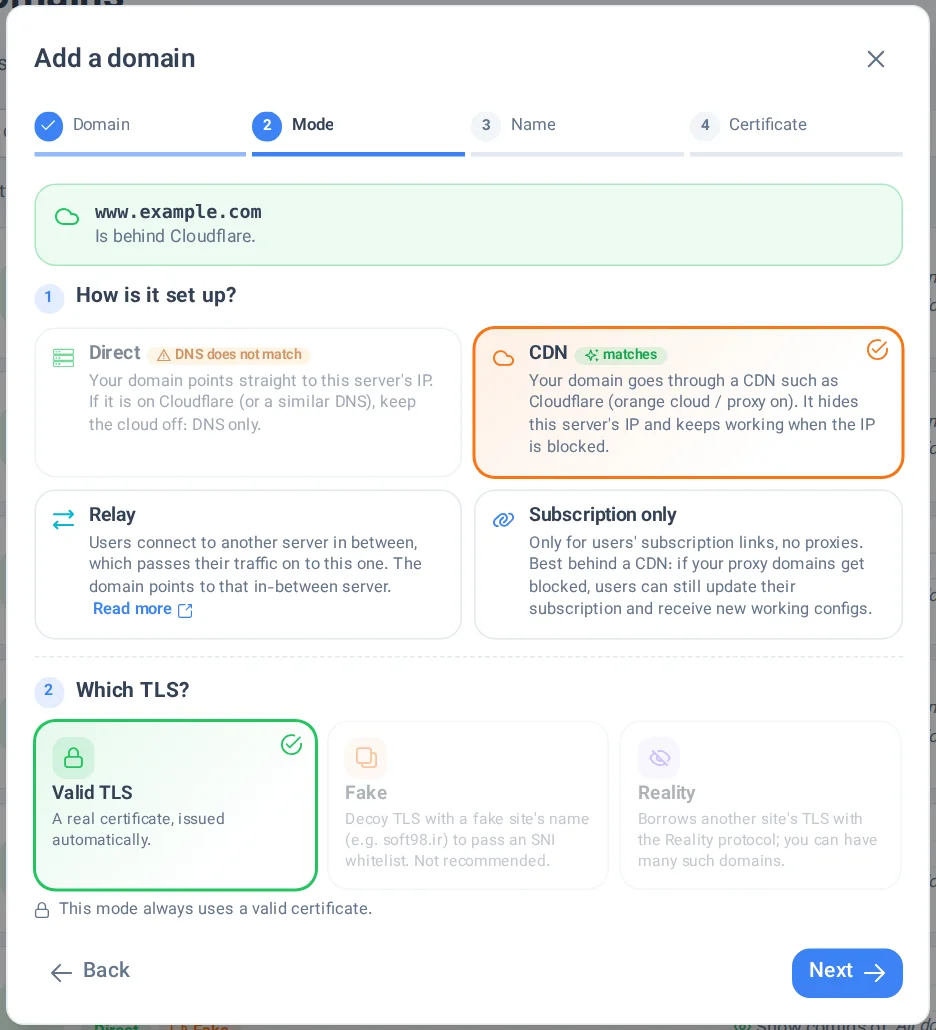
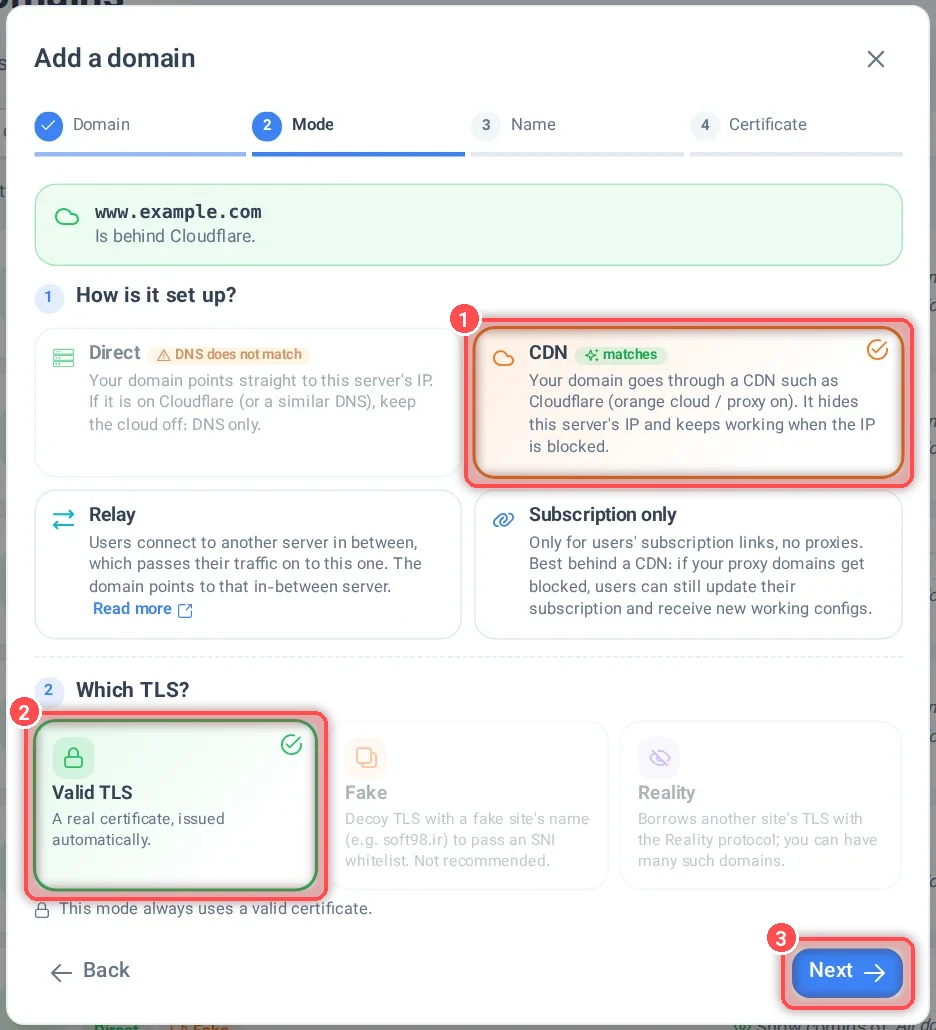
Docs: GCore CDN guide for the current Gcore dashboard
Rewrite the Gcore CDN on a Cloudflare domain guide (fa and en) with new
screenshots from the current Gcore portal: Get started for free, the
resource form with your own domain, the CNAME record (gcorecdn.com),
Origin pull protocol HTTPS, free Let's Encrypt SSL, Enable WebSockets
(off by default) and the Setup guide DNS check; account details blurred
and the options to use highlighted. Old wizard screenshots removed.

Changed region(s): [[0.4647, 0.2796, 0.9915, 0.4971], [0.0, 0.6524, 0.3718, 0.901], [0.8056, 0.901, 0.9915, 0.9942]]

diff --git a/docs/manager/domain-worker-cdn-and-tunneling/How-to-use-GCore-CDN-on-Cloudflare-registered-domain.fa.md b/docs/manager/domain-worker-cdn-and-tunneling/How-to-use-GCore-CDN-on-Cloudflare-registered-domain.fa.md
@@ -1,102 +1,82 @@
 ---
 title: آموزش استفاده از CDN GCore
+description: راهاندازی CDN شرکت Gcore برای یک زیردامنه که DNS آن در کلادفلر است، و افزودن آن به هیدیفایمنیجر.
 ---
 
-
 <div dir="rtl" markdown=1>
-  
+
 # آموزش استفاده از CDN GCore بر روی دامنه ثبت شده در Cloudflare
 
-همانطور که میدانید برای استفاده بهینه از هیدیفایمنیجر نیاز است یک ارائه دهنده CDN استفاده نمایید تا با استفاده از سرویسهای آن بتوان فیلترینگ را دور زد. در مطالب دیگر ما Cloudflare را معرفی و نحوه کار با آن را آموزش دادیم. این سرویس به دلیل اختلالات گستردهای که در ایران بر روی آن ایجاد میشود؛ بعضی اوقات کار را برای کاربران مشکل میکند. یک راه جایگزین استفاده از سرویس CDN شرکت GCore میباشد. برای آشنایی با نحوه تنظیمات آن این مقاله را تا انتها مطالعه نمایید.
+کلادفلر گاهی در ایران دچار اختلال میشود. یک جایگزین، CDN شرکت Gcore است. در این آموزش DNS دامنه شما در کلادفلر میماند و فقط یک زیردامنه (مثلا `gcore.yourdomain.com`) با یک رکورد `CNAME` به Gcore سپرده میشود.
 
-۱. ابتدا به [اینجا](https://gcore.com) بروید و اکانت خود را در سایت GCore بسازید. سپس وارد اکانت ساخته شده بشوید و در داشبورد خود گزینه CDN را بزنید.
+پیش از شروع، باید یک دامنه فعال در کلادفلر داشته باشید. [آموزش استفاده از CDN کلادفلر](/fa/manager/domain-worker-cdn-and-tunneling/How-to-use-Cloudflare-CDN/) را ببینید.
 
-![1](https://user-images.githubusercontent.com/125398461/235283540-83a44dbc-6b81-45d2-a04f-be2749cf0429.jpg)
+!!! info "هزینه"
+    طبق [صفحه قیمت Gcore](https://gcore.com/pricing/edge-network)، پلن پرداخت به ازای مصرف (PAYG) ماهانه ۱ ترابایت ترافیک CDN رایگان دارد و بیشتر از آن هزینه دارد. قیمتها ممکن است تغییر کنند؛ پیش از استفاده آن صفحه را چک کنید.
 
-۲. در مرحله بعد پلن رایگان را انتخاب نمایید و `Next` کنید.
+## ۱. ساخت حساب و منبع CDN در Gcore
 
-![2](https://user-images.githubusercontent.com/125398461/235283581-a392f93e-4d8a-44d9-9521-be83fb09564b.jpg)
+1. در [سایت Gcore](https://gcore.com) یک حساب بسازید و وارد داشبورد شوید.
+2. از منوی کناری **CDN** را باز کنید. اولین بار صفحه **Welcome to Gcore CDN** را میبینید؛ **Get started for free** را بزنید (کارت بانکی لازم نیست).
 
-۳. پس از تکمیل مشخصات خواسته شده بر روی گزینه `Get started` کلیک کنید.
+    <img style="display:block;margin:0 auto" width=700 alt="صفحه Welcome to Gcore CDN و دکمه Get started for free" src="/assets/manager/How-to-use-GCore-CDN-on-Cloudflare-registered-domain/gcore-welcome.webp">
 
-![3](https://user-images.githubusercontent.com/125398461/235283590-6654cae1-cc3b-42c6-ae8c-d4cc26b71a15.jpg)
+3. فرم **Set up your Edge Network resource** باز میشود:
+    - در بخش **Domain**، روی **Use your own domain** بزنید و زیردامنه خود را بنویسید، مثلا `gcore.yourdomain.com`.
+    - در بخش **Origin**، **URL / IP** را انتخاب کنید و آیپی سرور خود را وارد کنید.
+4. **Set up your resource** را بزنید.
 
-۴. در مرحله بعد بر روی `Create CDN resource` بزنید.
+    <img style="display:block;margin:0 auto" width=700 alt="فرم ساخت منبع CDN: دامنه خودتان، آیپی سرور و دکمه Set up your resource" src="/assets/manager/How-to-use-GCore-CDN-on-Cloudflare-registered-domain/gcore-create.webp">
 
-![4](https://user-images.githubusercontent.com/125398461/235283617-042ee013-e1a1-4567-aa6c-fcbf1080fa99.jpg)
+5. پیام **Edge Network resource is created!** را میبینید. در کادر **DNS change required** رکورد `CNAME` لازم نمایش داده میشود: **Host** زیردامنه شماست و **Value** مقداری شبیه `cl-xxxxxxxx.gcorecdn.com`. مقدار **Value** را کپی کنید.
 
-۵. حال در صفحه باز شده بر روی `Confirm` کلیک کنید.
+    <img style="display:block;margin:0 auto" width=700 alt="صفحه ساخته شدن منبع: کادر DNS change required با رکورد CNAME و دکمه Open resource settings" src="/assets/manager/How-to-use-GCore-CDN-on-Cloudflare-registered-domain/gcore-created.webp">
 
-![5](https://user-images.githubusercontent.com/125398461/235283626-b7923519-ffbc-425b-a65b-3063e19595a1.jpg)
 
-۶. در این مرحله دامنهای را که در کلاد فلر ثبت نمودهاید را به همراه سابدامنین دلخواه وارد کنید.
+## ۲. ساخت رکورد CNAME در کلادفلر
 
-![6](https://user-images.githubusercontent.com/125398461/235283639-ef21b5ba-5efd-48d5-a852-7aa8050b4316.jpg)
+1. در کلادفلر دامنه را انتخاب کنید و به **DNS** > **Records** بروید و **Add record** را بزنید.
+2. اینطور پر کنید و **Save** را بزنید:
+    - **Type**: `CNAME`
+    - **Name**: زیردامنه، مثلا `gcore`
+    - **Target**: مقداری که از Gcore کپی کردید
+    - **Proxy status**: خاموش (**DNS only**، ابر خاکستری). اگر روشن باشد، ترافیک به جای Gcore از کلادفلر عبور میکند.
 
-۷. سپس آیپی سرور خود را وارد کنید و بر روی گزینه Add بزنید.
+    ![رکورد CNAME در کلادفلر با پروکسی خاموش](https://user-images.githubusercontent.com/125398461/235284172-560987a3-8528-497a-89c9-58927fddc327.jpg)
 
-![7](https://user-images.githubusercontent.com/125398461/235283674-400d9213-029a-429b-9985-699c0bd40ba3.jpg)
+3. در Gcore، در بخش **Setup guide** منبع (بالای صفحه تنظیمات منبع)، **Check DNS setup status** را بزنید. وقتی پیام **DNS record has been successfully set up** را دیدید، DNS درست است. این کار ممکن است تا ۲۴ ساعت طول بکشد.
 
-۸. در مرحله بعد مجددا بر روی Confirm کلیک کنید.
+    <img style="display:block;margin:0 auto" width=450 alt="پنجره Setup guide: رکورد CNAME و دکمه Check DNS setup status" src="/assets/manager/How-to-use-GCore-CDN-on-Cloudflare-registered-domain/gcore-setup-guide.webp">
 
-![8](https://user-images.githubusercontent.com/125398461/235283679-fbb415e0-5b12-4880-be94-3f2a17ba5895.jpg)
+## ۳. تنظیمات منبع CDN در Gcore
 
-۹.  از آنجایی که شما قصد استفاده از CDN GCore را دارید، نیازی به ثبت nameserverهای GCore بر روی دامنه خود ندارید و فقط بر روی `Confirm` کلیک کنید.
+در همان صفحه **Open resource settings** را بزنید (یا منبع را از **CDN** > **CDN resources** باز کنید) و این سه تنظیم را انجام دهید. بعد از هر تغییر **Save changes** را بزنید؛ اعمال تغییرات روی همه سرورهای Gcore حدود ۱۵ دقیقه طول میکشد.
 
-![9](https://user-images.githubusercontent.com/125398461/235283686-69d71bb4-2c27-4375-8a04-3a7f2f1fac21.jpg)
+1. **پروتکل اتصال به سرور**: در زبانه **OPTIONS** > **General**، در کارت **Origin pull protocol** گزینه **HTTPS** را انتخاب کنید.
 
-۱۰. در این مرحله مجدد بر روی `Confirm` کلیک کنید.
+    <img style="display:block;margin:0 auto" width=700 alt="کارت Origin pull protocol با گزینه HTTPS و دکمه Save changes" src="/assets/manager/How-to-use-GCore-CDN-on-Cloudflare-registered-domain/gcore-origin-https.webp">
 
-![10](https://user-images.githubusercontent.com/125398461/235283803-1ca531c7-efb6-4bf2-ba21-5f68de3cc9df.jpg)
+2. **گواهی SSL**: در بخش **SSL**، **Enable HTTPS** را روشن کنید، **Free Let's Encrypt certificate** را انتخاب کنید و **Get SSL certificate** را بزنید. صدور گواهی تا ۱۵ دقیقه طول میکشد و فقط وقتی کار میکند که رکورد `CNAME` بخش ۲ درست باشد.
 
-۱۱. سپس بر روی گزینه `Open resource settings` بزنید.
+    <img style="display:block;margin:0 auto" width=700 alt="بخش SSL: Enable HTTPS، Free Let's Encrypt certificate و Get SSL certificate" src="/assets/manager/How-to-use-GCore-CDN-on-Cloudflare-registered-domain/gcore-ssl.webp">
 
-![11](https://user-images.githubusercontent.com/125398461/235283807-225d6325-b388-4a21-9b41-5da3f7457ba9.jpg)
+3. **WebSockets**: در بخش **Content** > **WebSockets**، **Enable WebSockets** را روشن کنید و **Save changes** را بزنید. این گزینه به طور پیشفرض خاموش است و بدون آن کانفیگهای WebSocket وصل نمیشوند.
 
-۱۲. در صفحه باز شده بر روی گزینه `DNS` کلیک کنید.
+    <img style="display:block;margin:0 auto" width=700 alt="بخش WebSockets: کلید Enable WebSockets و دکمه Save changes" src="/assets/manager/How-to-use-GCore-CDN-on-Cloudflare-registered-domain/gcore-websockets.webp">
 
-![12](https://user-images.githubusercontent.com/125398461/235283814-711cf947-256c-4cda-8cc5-236abe8a6b31.jpg)
+!!! note "محافظت WAAP"
+    Gcore برای منبع جدید محافظت WAAP را در حالت «فقط نظارت» (monitoring mode) روشن میکند. اگر بعدها آن را روی حالت مسدودکردن بگذارید، ممکن است اتصالهای WebSocket با خطای `403` رد شوند.
 
-۱۳. حالا روی دامنه خود کلیک کنید تا لیست رکوردهای ثبت شده را نمایش دهد.
+## ۴. افزودن زیردامنه به هیدیفایمنیجر
 
-![13](https://user-images.githubusercontent.com/125398461/235283822-62ce802c-d7c2-44e8-8fd6-a418fe6a04c2.jpg)
+1. از منوی کناری پنل، در گروه **تنظیمات**، صفحه **دامنهها** را باز کنید و **افزودن دامنه** را بزنید.
+2. در مرحله **دامنه**، زیردامنه (مثلا `gcore.yourdomain.com`) را وارد کنید و **بررسی** را بزنید.
+3. در مرحله **حالت**، زیر **چطور تنظیم شده است؟** گزینه **CDN** را انتخاب کنید، **TLS معتبر** را نگه دارید و **بعدی** را بزنید.
 
-۱۴. در مرحله بعد برای ویرایش رکورد CDN دکمه مداد را بزنید.
+    <img style="display:block;margin:0 auto" width=600 alt="راهنمای افزودن دامنه، مرحله حالت: انتخاب CDN" src="/assets/manager/How-to-use-GCore-CDN-on-Cloudflare-registered-domain/fa-domain-mode.webp">
 
-![14](https://user-images.githubusercontent.com/125398461/235283921-81cfdb21-b00b-4e94-907d-3a6b95f7b650.jpg)
+4. مراحل **نام** و **گواهی** را تمام کنید تا دامنه اضافه شود.
 
-۱۵. در این مرحله بر روی گزینه `CDN Integration` بزنید تا یکپارچه سازی CDNها را انجام دهید. 
+اگر **نمایش کانفیگهای** دامنه صفحه کاربری شما روی **همه دامنهها** است، کانفیگهای جدید خودکار به لینک اشتراک اضافه میشوند. از کاربران بخواهید اشتراک خود را در برنامه بهروزرسانی کنند.
 
-![15](https://user-images.githubusercontent.com/125398461/235284019-0301d8e3-d882-4482-9c75-23a30e4fb2f1.jpg)
-
-۱۶. حالا دامنهای که در بخش `CDN Integration` وجود دارد را کپی کنید.
-
-![16](https://user-images.githubusercontent.com/125398461/235284138-6355a421-a7da-46c8-803a-b4b65cdc8fb1.jpg)
-
-۱۷. حالا وارد اکانت کلادفلر خود شوید، وارد تنظیمات دامنهی خود شوید و در بخش DNS یک رکورد `CNAME` با استفاده از دامنهای که خود در بخش قبل کپی کرده بودید، ثبت نمایید. دقت شود که تیک پروکسی برای این رکورد خاموش باشد.
-
-![17](https://user-images.githubusercontent.com/125398461/235284172-560987a3-8528-497a-89c9-58927fddc327.jpg)
-
-۱۸. مجدد وارد داشبورد خود در سایت GCore شده و در بخش CDN پس از اطمینان از Active بودن آن، بر روی دامنهی بر روی دامنهی خود کلیک کنید.
-
-> نکته: ممکن است `Active` شدن کمی زمان بگیرد.
-
-![18](https://user-images.githubusercontent.com/125398461/235284405-71b9fe26-e25c-4750-b349-1fac9cd34efb.jpg)
-
-۱۹. سپس در بخش `Origin`، تنظیمات `Origin pull protocol` را بر روی `HTTPS` تنظیم نمایید.
-
-![19](https://user-images.githubusercontent.com/125398461/235284438-6d4e0c6e-79dc-4175-8718-8a85b68b46d1.jpg)
-
-۲۰. حالا برای گرفتن سرتیفیکت در سربرگ `SSL`، بر روی گزینه `Get SSL certificate` بزنید.
-
-![20](https://user-images.githubusercontent.com/125398461/235284577-e0ee7fbb-31d9-476b-9901-f2fb78c5c22d.jpg)
-
-۲۱. دریافت سرتیفیکت ممکن است حدودا ۱۵ دقیقه زمان ببرد. پس از گرفتن سرتیفیکت، شما پیغامی مبنی بر استفاده و تمدید خودکار آن مشاهده خواهید کرد.
-
-![21](https://user-images.githubusercontent.com/125398461/235284579-898335c0-28d3-477f-b900-3f8a381bcdda.jpg)
-
-۲۲. حالا میتوانید از این سابدامین به عنوان دامنه CDN در هیدیفایمنیجر استفاده کنید. از منوی کناری پنل، بخش `دامنهها` (در گروه `تنظیمات`) را باز کنید و روی `افزودن دامنه` بزنید. در مرحله `دامنه`، سابدامین را وارد کنید و روی `بررسی` بزنید. در مرحله `حالت`، زیر `چطور تنظیم شده است؟` گزینه `CDN` را انتخاب کنید، `TLS معتبر` را نگه دارید و روی `بعدی` بزنید. سپس مراحل `نام` و `گواهی` را طی کنید و تغییرات را اعمال کنید.
-
-<img width=600 alt="راهنمای افزودن دامنه، مرحله حالت: انتخاب CDN" src="/assets/manager/How-to-use-GCore-CDN-on-Cloudflare-registered-domain/fa-domain-mode.webp" style="display:block;margin:0 auto">
-
-* نکته پایانی و مهم: یادتون نره که CDN GCore در پلن رایگان محدودیت ۱۰۰۰ گیگابایتی دارد.
+</div>

diff --git a/docs/manager/domain-worker-cdn-and-tunneling/How-to-use-GCore-CDN-on-Cloudflare-registered-domain.md b/docs/manager/domain-worker-cdn-and-tunneling/How-to-use-GCore-CDN-on-Cloudflare-registered-domain.md
@@ -1,102 +1,82 @@
 ---
 title: How to use GCore CDN
+description: Set up Gcore CDN for a subdomain whose DNS is on Cloudflare, and add it to HiddifyManager.
 ---
 
 <div dir="ltr" markdown="1">
 
-
 # How to use GCore CDN on Cloudflare registered domain
 
-As you probably know, in order to use the HiddifyManager optimally, you need to use a CDN provider so that filtering can be bypassed using its services. In other articles, we introduced Cloudflare and taught how to work with it. This service is due to widespread disruptions that are applied on it; Sometimes it makes things difficult for users. An alternative way is to use GCore's CDN service. Read this article to the end to learn how to set it up.
+Cloudflare is sometimes disrupted in Iran. One alternative is Gcore's CDN. In this tutorial your domain's DNS stays on Cloudflare, and only one subdomain (for example `gcore.yourdomain.com`) is handed to Gcore with a `CNAME` record.
 
-1. First, go [here](https://gcore.com/) and create your account on GCore website. Then log in to the created account and click on the CDN option in your dashboard.
+Before you start, you need an active domain on Cloudflare. See [How to use Cloudflare CDN](/manager/domain-worker-cdn-and-tunneling/How-to-use-Cloudflare-CDN/).
 
-![](https://user-images.githubusercontent.com/125398461/235283540-83a44dbc-6b81-45d2-a04f-be2749cf0429.jpg)
+!!! info "Cost"
+    According to [Gcore's pricing page](https://gcore.com/pricing/edge-network), the pay-as-you-go (PAYG) plan includes 1 TB of free CDN traffic a month; more than that is paid. Prices can change, so check that page before you start.
 
-2. In the next step, choose the free plan and click `Next`.
+## 1. Make an account and a CDN resource on Gcore
 
-![](https://user-images.githubusercontent.com/125398461/235283581-a392f93e-4d8a-44d9-9521-be83fb09564b.jpg)
+1. Make an account on the [Gcore website](https://gcore.com) and open the dashboard.
+2. Open **CDN** in the side menu. The first time, you see **Welcome to Gcore CDN**: click **Get started for free** (no credit card needed).
 
-3. After completing the requested information, click on the `Get started` option.
+    <img style="display:block;margin:0 auto" width=700 alt="Welcome to Gcore CDN and the Get started for free button" src="/assets/manager/How-to-use-GCore-CDN-on-Cloudflare-registered-domain/gcore-welcome.webp">
 
-![](https://user-images.githubusercontent.com/125398461/235283590-6654cae1-cc3b-42c6-ae8c-d4cc26b71a15.jpg)
+3. The **Set up your Edge Network resource** form opens:
+    - Under **Domain**, click **Use your own domain** and type your subdomain, for example `gcore.yourdomain.com`.
+    - Under **Origin**, choose **URL / IP** and enter your server's IP.
+4. Click **Set up your resource**.
 
-4. In the next step, click on `Create CDN resource`.
+    <img style="display:block;margin:0 auto" width=700 alt="The CDN resource form: your own domain, your server IP and Set up your resource" src="/assets/manager/How-to-use-GCore-CDN-on-Cloudflare-registered-domain/gcore-create.webp">
 
-![](https://user-images.githubusercontent.com/125398461/235283617-042ee013-e1a1-4567-aa6c-fcbf1080fa99.jpg)
+5. You see **Edge Network resource is created!**. The **DNS change required** box shows the `CNAME` record you need: **Host** is your subdomain and **Value** looks like `cl-xxxxxxxx.gcorecdn.com`. Copy the **Value**.
 
-5. Now click on `Confirm` on the opened page.
+    <img style="display:block;margin:0 auto" width=700 alt="Resource created: the DNS change required box with the CNAME record, and Open resource settings" src="/assets/manager/How-to-use-GCore-CDN-on-Cloudflare-registered-domain/gcore-created.webp">
 
-![](https://user-images.githubusercontent.com/125398461/235283626-b7923519-ffbc-425b-a65b-3063e19595a1.jpg)
 
-6. In this step, enter the domain you have registered in Cloudflare along with the desired subdomain.
+## 2. Make the CNAME record on Cloudflare
 
-![](https://github.com/hiddify/hiddify.com/assets/125398461/c206f237-3b9c-411a-9e22-9a7ff048e9ff)
+1. On Cloudflare, select the domain, go to **DNS** > **Records** and click **Add record**.
+2. Fill it in like this and click **Save**:
+    - **Type**: `CNAME`
+    - **Name**: the subdomain, for example `gcore`
+    - **Target**: the value you copied from Gcore
+    - **Proxy status**: off (**DNS only**, grey cloud). If it is on, the traffic goes through Cloudflare instead of Gcore.
 
-7. Then enter your server's IP and click on `Add` button.
+    ![CNAME record on Cloudflare with the proxy off](https://github.com/hiddify/hiddify.com/assets/125398461/519004ac-c33e-4489-a224-47cc9d35b3b1)
 
-![](https://github.com/hiddify/hiddify.com/assets/125398461/2766aadb-eef5-4b14-b6d5-c9543fc0f0d7)
+3. On Gcore, in the resource's **Setup guide** (at the top of the resource settings), click **Check DNS setup status**. When you see **DNS record has been successfully set up**, the DNS is right. This can take up to 24 hours.
 
-8. In the next step, click on `Confirm` again.
+    <img style="display:block;margin:0 auto" width=450 alt="Setup guide: the CNAME record and Check DNS setup status" src="/assets/manager/How-to-use-GCore-CDN-on-Cloudflare-registered-domain/gcore-setup-guide.webp">
 
-![](https://user-images.githubusercontent.com/125398461/235283679-fbb415e0-5b12-4880-be94-3f2a17ba5895.jpg)
+## 3. Set up the CDN resource on Gcore
 
-9. Since you are going to use GCore's CDN, you don't need to register GCore's nameservers on your domain and just click on `Confirm`.
+On the same page click **Open resource settings** (or open the resource from **CDN** > **CDN resources**) and set these three things. Click **Save changes** after each change; applying it on all Gcore servers takes about 15 minutes.
 
-![](https://user-images.githubusercontent.com/125398461/235283686-69d71bb4-2c27-4375-8a04-3a7f2f1fac21.jpg)
+1. **Protocol to your server**: in the **OPTIONS** tab > **General**, under **Origin pull protocol**, choose **HTTPS**.
 
-10. In this step, click on `Confirm` again.
+    <img style="display:block;margin:0 auto" width=700 alt="Origin pull protocol with HTTPS chosen, and Save changes" src="/assets/manager/How-to-use-GCore-CDN-on-Cloudflare-registered-domain/gcore-origin-https.webp">
 
-![](https://user-images.githubusercontent.com/125398461/235283803-1ca531c7-efb6-4bf2-ba21-5f68de3cc9df.jpg)
+2. **SSL certificate**: in the **SSL** section, turn on **Enable HTTPS**, choose **Free Let's Encrypt certificate** and click **Get SSL certificate**. Issuing takes up to 15 minutes and only works once the `CNAME` record from step 2 is right.
 
-11. Then click on `Open resource settings` option.
+    <img style="display:block;margin:0 auto" width=700 alt="SSL section: Enable HTTPS, Free Let's Encrypt certificate and Get SSL certificate" src="/assets/manager/How-to-use-GCore-CDN-on-Cloudflare-registered-domain/gcore-ssl.webp">
 
-![](https://user-images.githubusercontent.com/125398461/235283807-225d6325-b388-4a21-9b41-5da3f7457ba9.jpg)
+3. **WebSockets**: in **Content** > **WebSockets**, turn on **Enable WebSockets** and click **Save changes**. It is off by default, and WebSocket configs don't connect without it.
 
-12. In the opened page, click on the `DNS` option.
+    <img style="display:block;margin:0 auto" width=700 alt="WebSockets section: Enable WebSockets and Save changes" src="/assets/manager/How-to-use-GCore-CDN-on-Cloudflare-registered-domain/gcore-websockets.webp">
 
-![](https://user-images.githubusercontent.com/125398461/235283814-711cf947-256c-4cda-8cc5-236abe8a6b31.jpg)
+!!! note "WAAP protection"
+    Gcore turns on WAAP protection for a new resource in "monitoring mode". If you later switch it to blocking, WebSocket connections may be refused with a `403` error.
 
-13. Now click on your domain to display the list of registered records.
+## 4. Add the subdomain to HiddifyManager
 
-![13](https://user-images.githubusercontent.com/125398461/235283822-62ce802c-d7c2-44e8-8fd6-a418fe6a04c2.jpg)
+1. In the panel side menu, in the **Settings** group, open **Domains** and click **Add domain**.
+2. In the **Domain** step, enter the subdomain (for example `gcore.yourdomain.com`) and click **Check**.
+3. In the **Mode** step, under **How is it set up?**, choose **CDN**, keep **Valid TLS** and click **Next**.
 
-14. Next, click the pencil button to edit the CDN record.
+    <img style="display:block;margin:0 auto" width=600 alt="Add a domain wizard, Mode step: CDN selected" src="/assets/manager/How-to-use-GCore-CDN-on-Cloudflare-registered-domain/en-domain-mode.webp">
 
-![](https://user-images.githubusercontent.com/125398461/235283921-81cfdb21-b00b-4e94-907d-3a6b95f7b650.jpg)
+4. Finish the **Name** and **Certificate** steps to add the domain.
 
-15. In this step, click on the `CDN Integration` option to integrate CDNs.
+If **Show configs of** on your user-page domain is set to **All domains**, the new configs are added to the subscription link by themselves. Ask your users to update the subscription in their app.
 
-![](https://user-images.githubusercontent.com/125398461/235284019-0301d8e3-d882-4482-9c75-23a30e4fb2f1.jpg)
-
-16. Now copy the domain that is in the `CDN Integration` section.
-
-![](https://github.com/hiddify/hiddify.com/assets/125398461/fe33cf16-40a4-4782-b4c3-229768ebde86)
-
-17. Now log in to your Cloudflare account, enter your domain settings and register a `CNAME` record in the DNS section using the domain you copied in the previous section.
-
-![17](https://github.com/hiddify/hiddify.com/assets/125398461/519004ac-c33e-4489-a224-47cc9d35b3b1)
-
-18. Go your dashboard on the GCore site again and in the CDN section, after making sure it is Active, click on the domain on your domain.
-
-> Note: It may take some time to become active.
-
-![](https://user-images.githubusercontent.com/125398461/235284405-71b9fe26-e25c-4750-b349-1fac9cd34efb.jpg)
-
-19. Then, in the `Origin` section, set the `Origin pull protocol` setting to `HTTPS`.
-
-![](https://user-images.githubusercontent.com/125398461/235284438-6d4e0c6e-79dc-4175-8718-8a85b68b46d1.jpg)
-
-20. Now, to get the certificate in the `SSL` tab, click on the `Get SSL certificate` option.
-
-![](https://user-images.githubusercontent.com/125398461/235284577-e0ee7fbb-31d9-476b-9901-f2fb78c5c22d.jpg)
-
-21. Receiving the certificate may take about 15 minutes. After getting the certificate, you will see a message about its use and automatic renewal.
-
-![](https://user-images.githubusercontent.com/125398461/235284579-898335c0-28d3-477f-b900-3f8a381bcdda.jpg)
-
-22. Now we can use this subdomain as a CDN domain in HiddifyManager. In the panel side menu, open `Domains` (in the `Settings` group) and click `Add domain`. Enter the subdomain in the `Domain` step and click `Check`. In the `Mode` step, under `How is it set up?`, choose `CDN`, keep `Valid TLS` and click `Next`. Then go through the `Name` and `Certificate` steps and apply the changes.
-
-<img width=600 alt="Add a domain wizard, Mode step: CDN selected" src="/assets/manager/How-to-use-GCore-CDN-on-Cloudflare-registered-domain/en-domain-mode.webp" style="display:block;margin:0 auto">
-
-* Final and important point: Don't forget that CDN GCore has a limit of 1000 GB in the free plan.
+</div>
